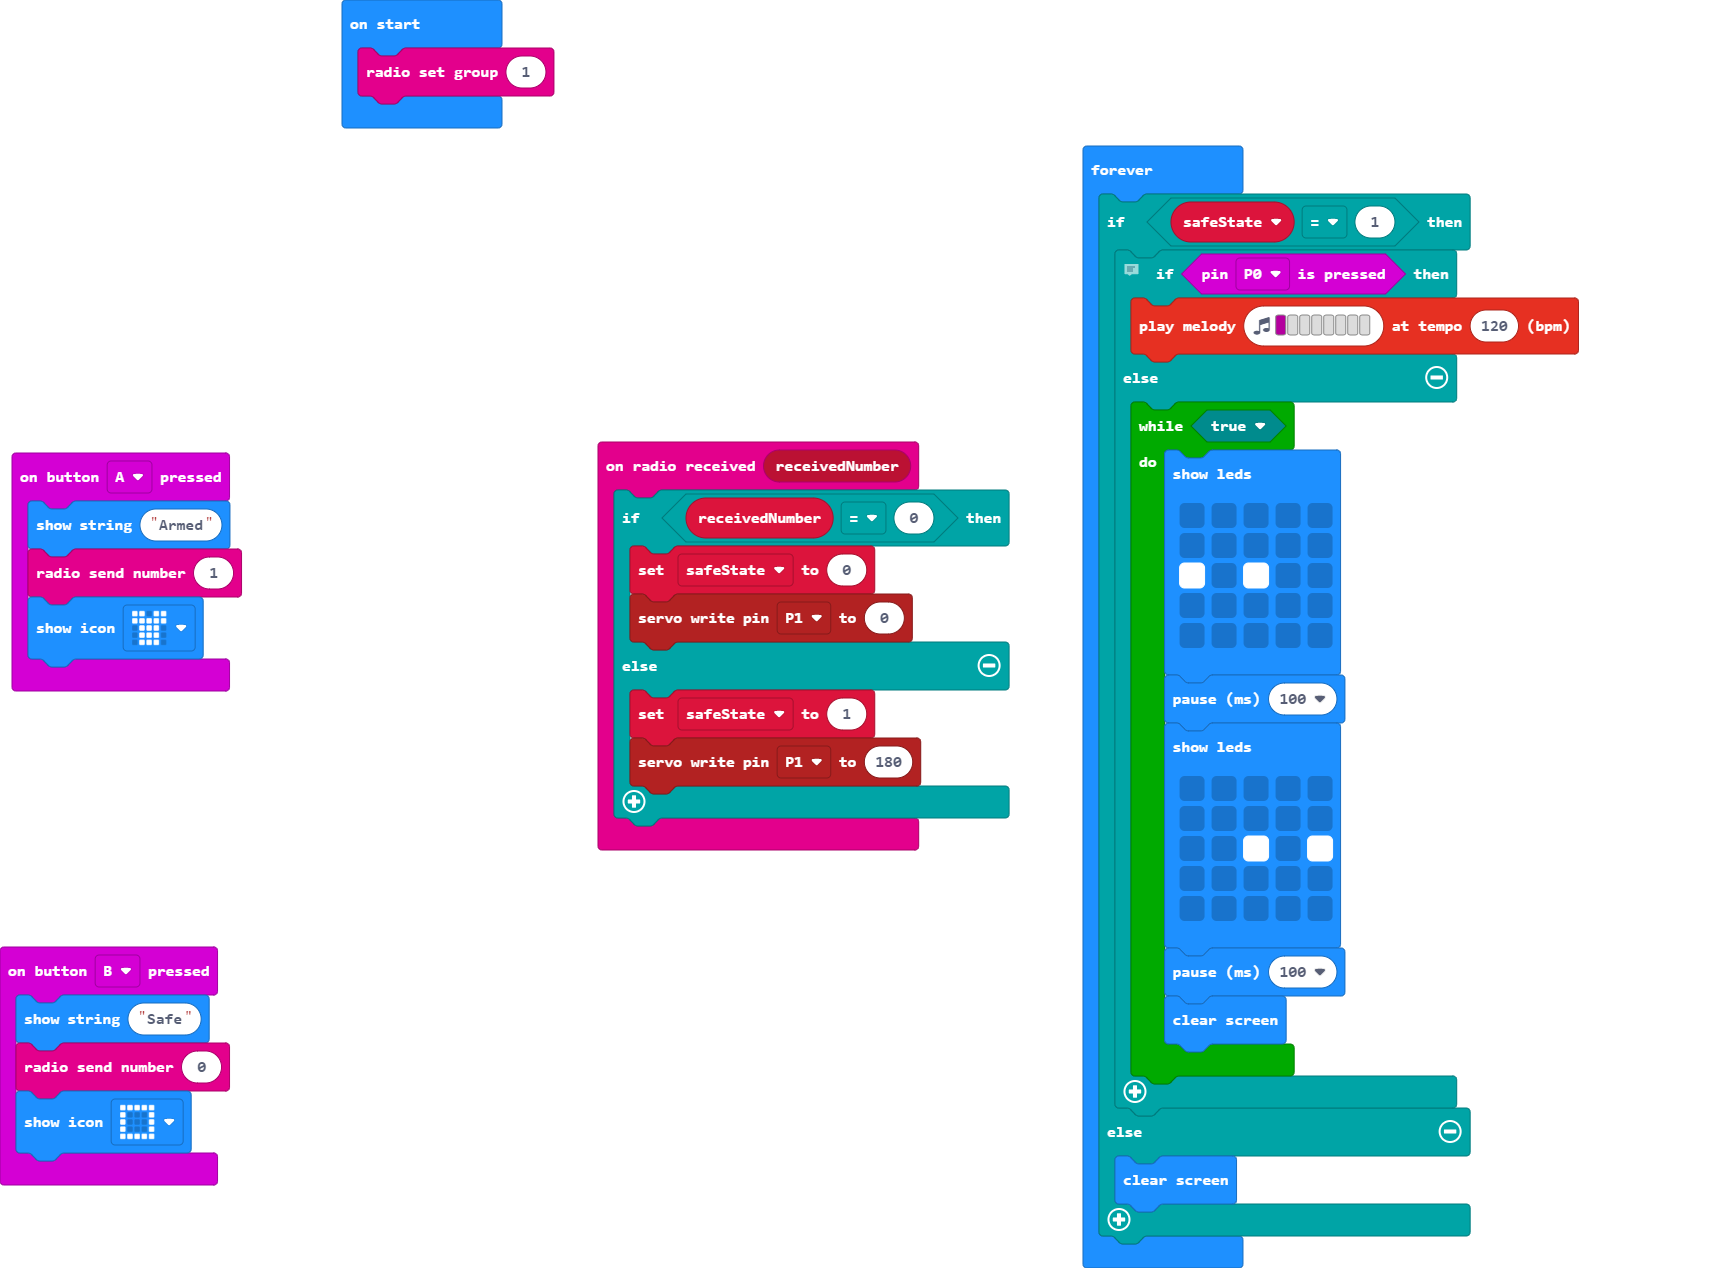
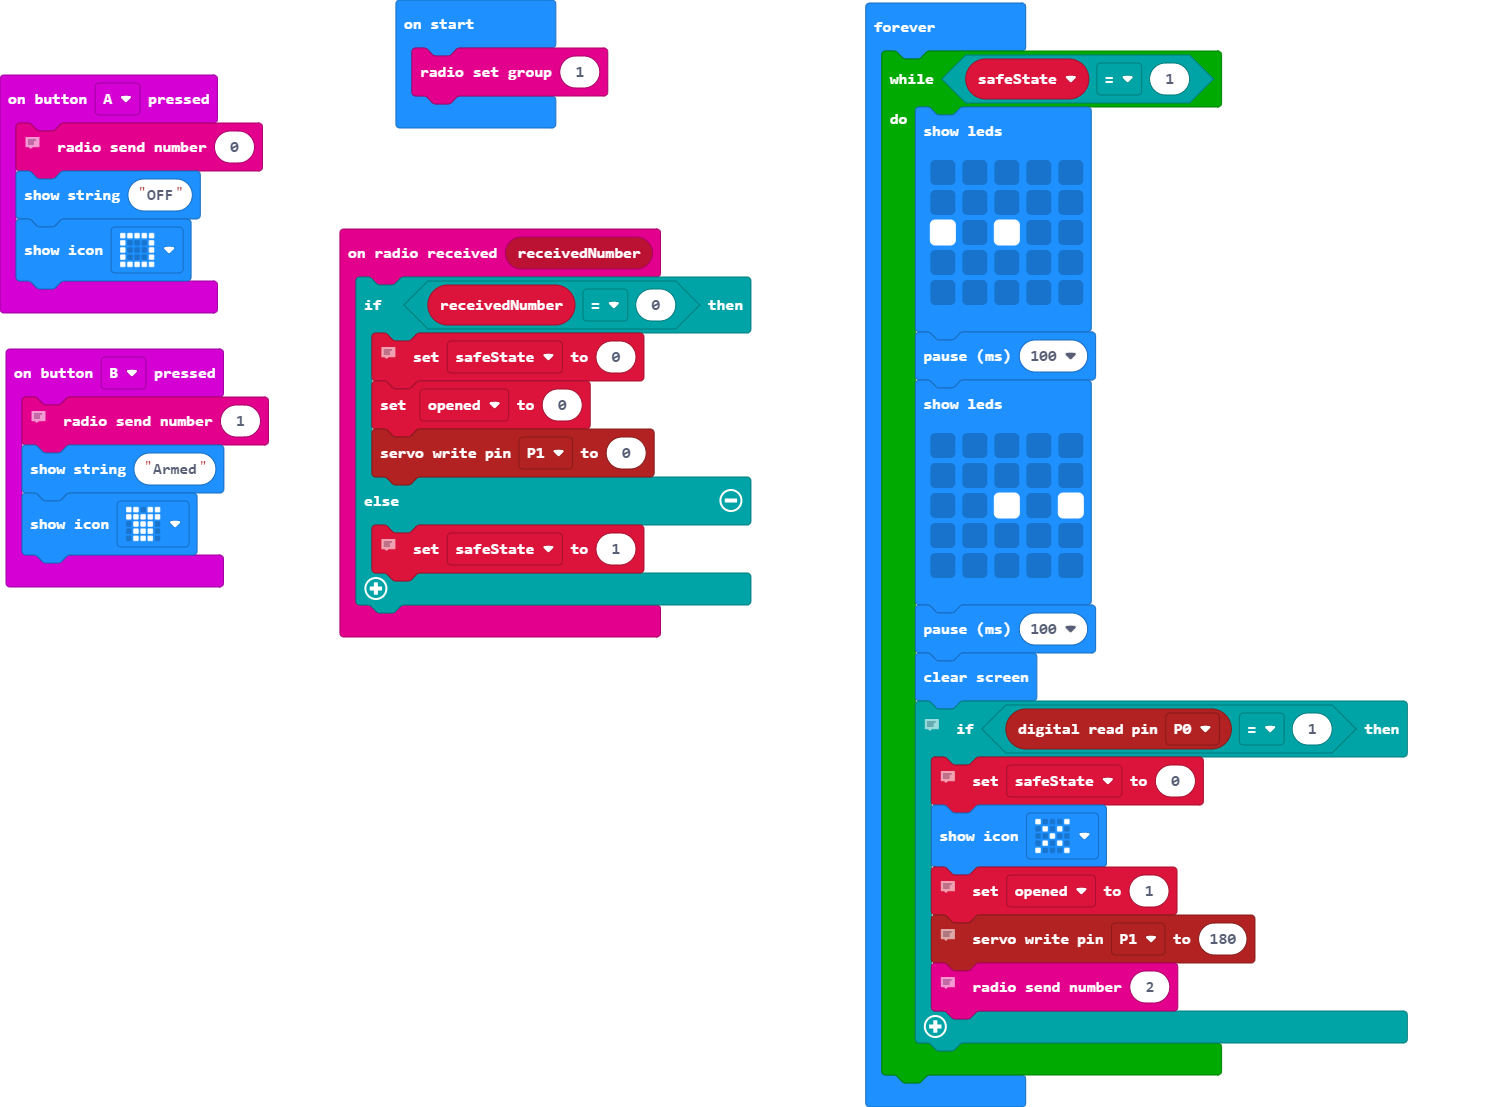
Update pxt.json, main.blocks, main.ts

diff --git a/main.ts b/main.ts
@@ -1,52 +1,59 @@
 radio.onReceivedNumber(function (receivedNumber) {
     if (receivedNumber == 0) {
+        // disarm the safe
         safeState = 0
+        opened = 0
         pins.servoWritePin(AnalogPin.P1, 0)
     } else {
+        // arm the safe
         safeState = 1
-        pins.servoWritePin(AnalogPin.P1, 180)
     }
 })
 input.onButtonPressed(Button.A, function () {
-    basic.showString("Armed")
-    radio.sendNumber(1)
-    basic.showIcon(IconNames.TShirt)
-})
-input.onButtonPressed(Button.B, function () {
-    basic.showString("Safe")
+    // disarm the safe
     radio.sendNumber(0)
+    basic.showString("OFF")
     basic.showIcon(IconNames.Square)
 })
+input.onButtonPressed(Button.B, function () {
+    // arm the safe
+    radio.sendNumber(1)
+    basic.showString("Armed")
+    basic.showIcon(IconNames.TShirt)
+})
+let opened = 0
 let safeState = 0
 radio.setGroup(1)
 basic.forever(function () {
-    if (safeState == 1) {
-        // System has not been compromised so all is well - do nothing
-        // System is compromised so need to alert!
-        if (input.pinIsPressed(TouchPin.P0)) {
-            music.playMelody("C - - - - - - - ", 120)
-        } else {
-            while (true) {
-                basic.showLeds(`
-                    . . . . .
-                    . . . . .
-                    # . # . .
-                    . . . . .
-                    . . . . .
-                    `)
-                basic.pause(100)
-                basic.showLeds(`
-                    . . . . .
-                    . . . . .
-                    . . # . #
-                    . . . . .
-                    . . . . .
-                    `)
-                basic.pause(100)
-                basic.clearScreen()
-            }
-        }
-    } else {
+    while (safeState == 1) {
+        basic.showLeds(`
+            . . . . .
+            . . . . .
+            # . # . .
+            . . . . .
+            . . . . .
+            `)
+        basic.pause(100)
+        basic.showLeds(`
+            . . . . .
+            . . . . .
+            . . # . #
+            . . . . .
+            . . . . .
+            `)
+        basic.pause(100)
         basic.clearScreen()
+        // System has not been compromised so all is well - do nothing
+        if (pins.digitalReadPin(DigitalPin.P0) == 1) {
+            // System is compromised so need to alert!
+            safeState = 0
+            basic.showIcon(IconNames.No)
+            // System is compromised so need to alert!
+            opened = 1
+            // Safe is opened - write to server to show broken flag
+            pins.servoWritePin(AnalogPin.P1, 180)
+            // arm the safe
+            radio.sendNumber(2)
+        }
     }
 })
